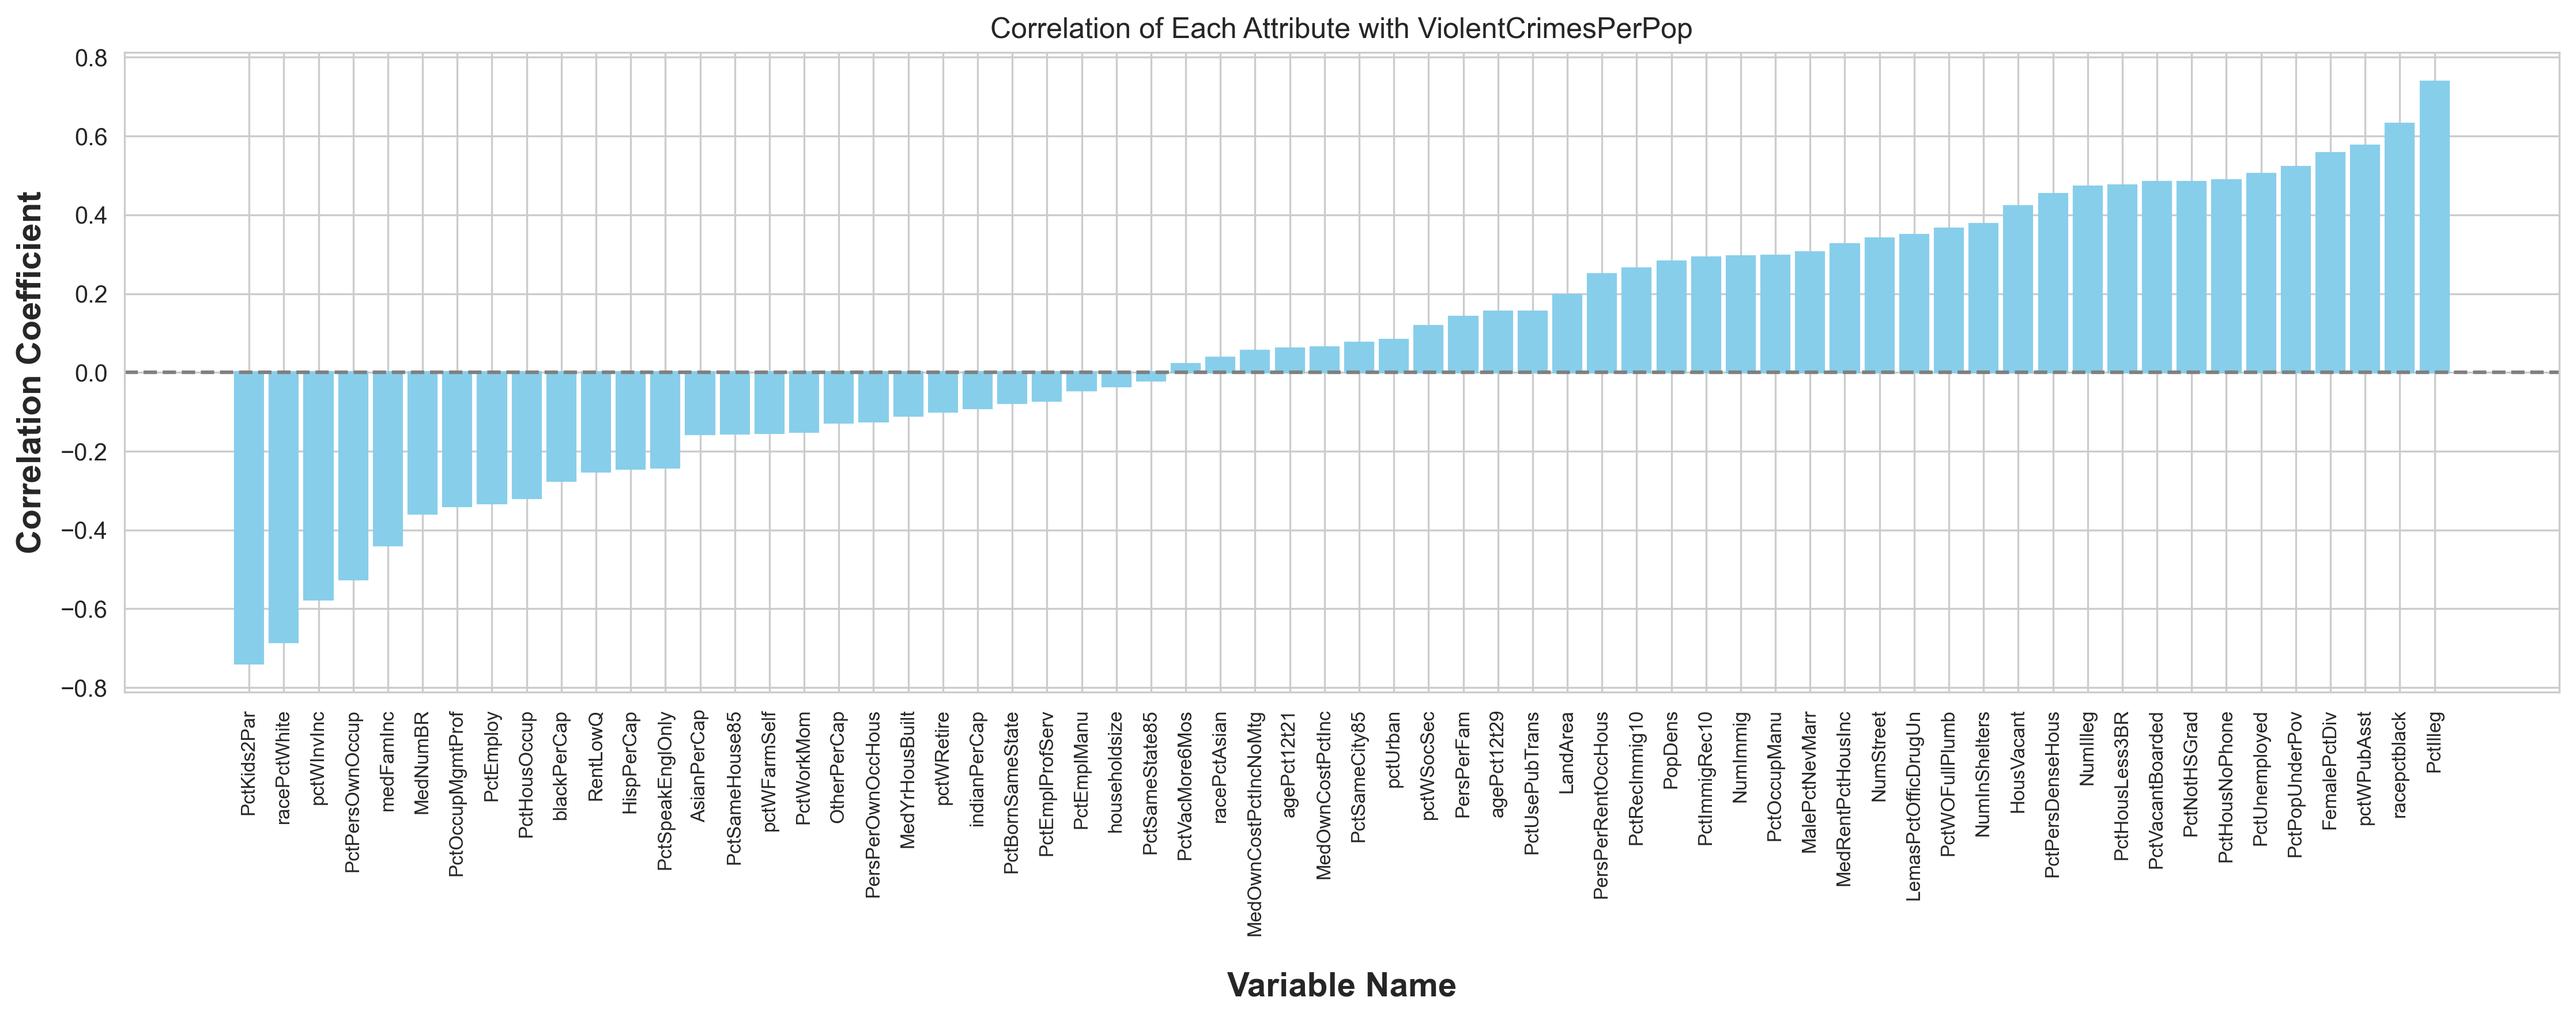
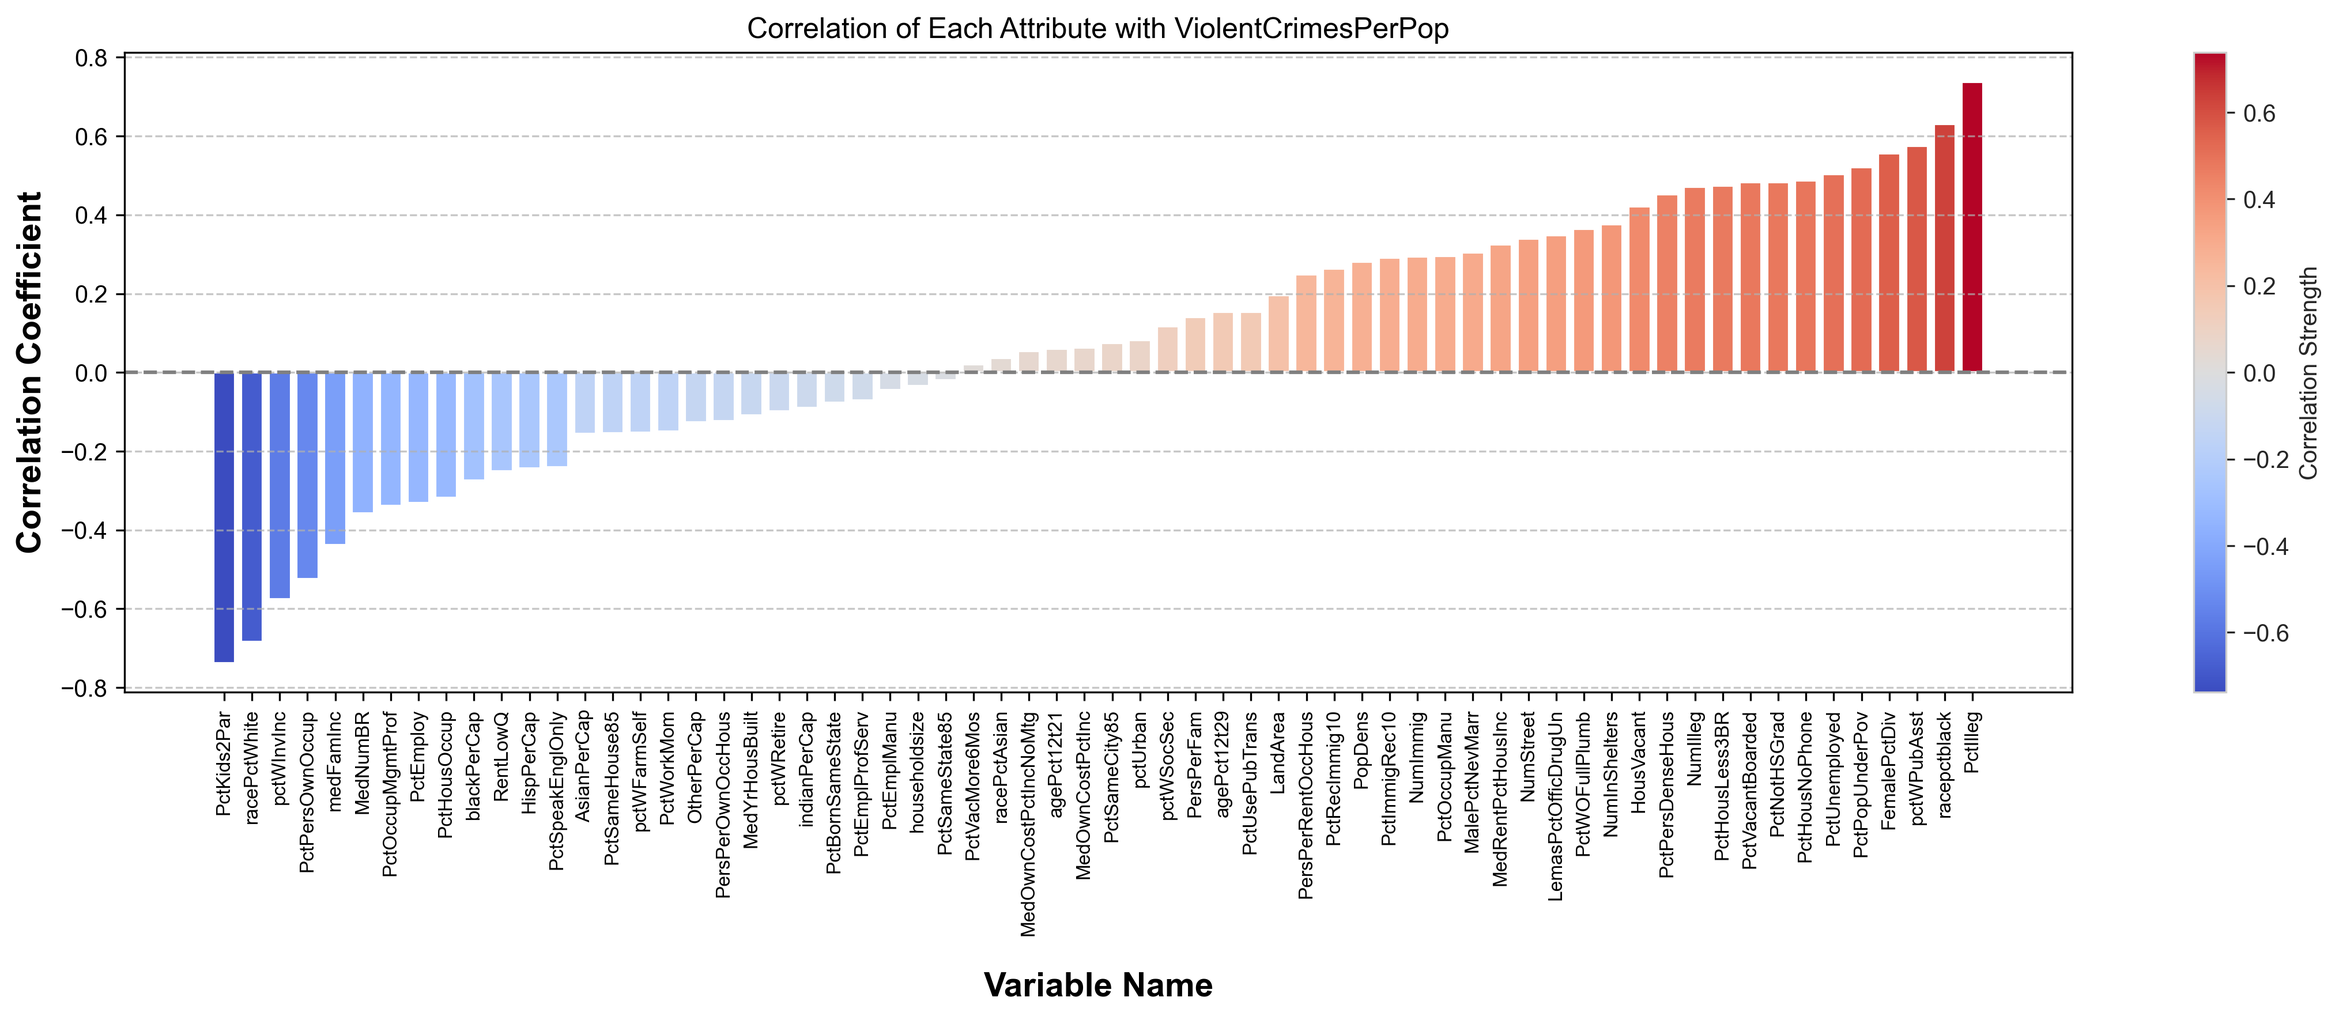
correlation graph optimized

diff --git a/correlation_coefficient.py b/correlation_coefficient.py
@@ -1,6 +1,8 @@
 import pandas as pd
 import seaborn as sns
 import matplotlib.pyplot as plt
+import matplotlib.cm as cm
+import matplotlib.colors as mcolors
 
 
 def get_highly_correlated_features(df, threshold, target_col='ViolentCrimesPerPop',):
@@ -26,21 +28,34 @@ if __name__ == "__main__":
     # Export cleaned dataset
     clean_df = pd.read_csv('./dataset/clean_dataset.csv')
     target_col = 'ViolentCrimesPerPop'
+
     # Calculate correlation with target (excluding the target itself)
     correlation_matrix = clean_df.corr()[target_col].drop(target_col)
 
     # Convert to DataFrame and sort
     correlation_df = correlation_matrix.sort_values()
 
-    # Plot
-    plt.figure(figsize=(15, 6))  # WIDE plot to fit all 128 attribute names
-    sns.set_style("whitegrid")
-    plt.bar(correlation_df.index, correlation_df.values, color='skyblue', edgecolor='skyblue')
+    # Normalize correlation values to [0,1] for colormap
+    norm = mcolors.Normalize(vmin=correlation_df.min(), vmax=correlation_df.max())
+    cmap = cm.get_cmap("coolwarm")  # blue to red colormap
+    colors = cmap(norm(correlation_df.values))
 
-    plt.xticks(rotation=90, fontsize=8)  # Rotate attribute names for visibility
-    plt.xlabel("Variable Name", fontsize=14, fontweight='bold', labelpad=15)
-    plt.ylabel("Correlation Coefficient", fontsize=14, fontweight='bold', labelpad=5)
-    plt.title(f'Correlation of Each Attribute with {target_col}')
-    plt.axhline(0, color='gray', linestyle='--')  # horizontal line at 0
+    # Plot
+    fig, ax = plt.subplots(figsize=(15, 6))  
+    sns.set_style("whitegrid")
+    bars = ax.bar(correlation_df.index, correlation_df.values, color=colors)
+
+    ax.set_xticklabels(correlation_df.index, rotation=90, fontsize=8)  
+    ax.set_xlabel("Variable Name", fontsize=14, fontweight='bold', labelpad=15)
+    ax.set_ylabel("Correlation Coefficient", fontsize=14, fontweight='bold', labelpad=5)
+    ax.set_title(f'Correlation of Each Attribute with {target_col}')
+    ax.grid(True, which='major', axis='y', linestyle='--', alpha=0.7)
+    ax.axhline(0, color='gray', linestyle='--')  
+
+    # Add colorbar to the figure explicitly
+    sm = cm.ScalarMappable(cmap=cmap, norm=norm)
+    sm.set_array([])
+    fig.colorbar(sm, ax=ax, orientation="vertical", label="Correlation Strength")
+
     plt.tight_layout()
-    plt.savefig("graph/correlation_coefficient.png", dpi=300, bbox_inches='tight')  # save before plt.show()
+    plt.savefig("graph/correlation_coefficient.png", dpi=300, bbox_inches='tight')
